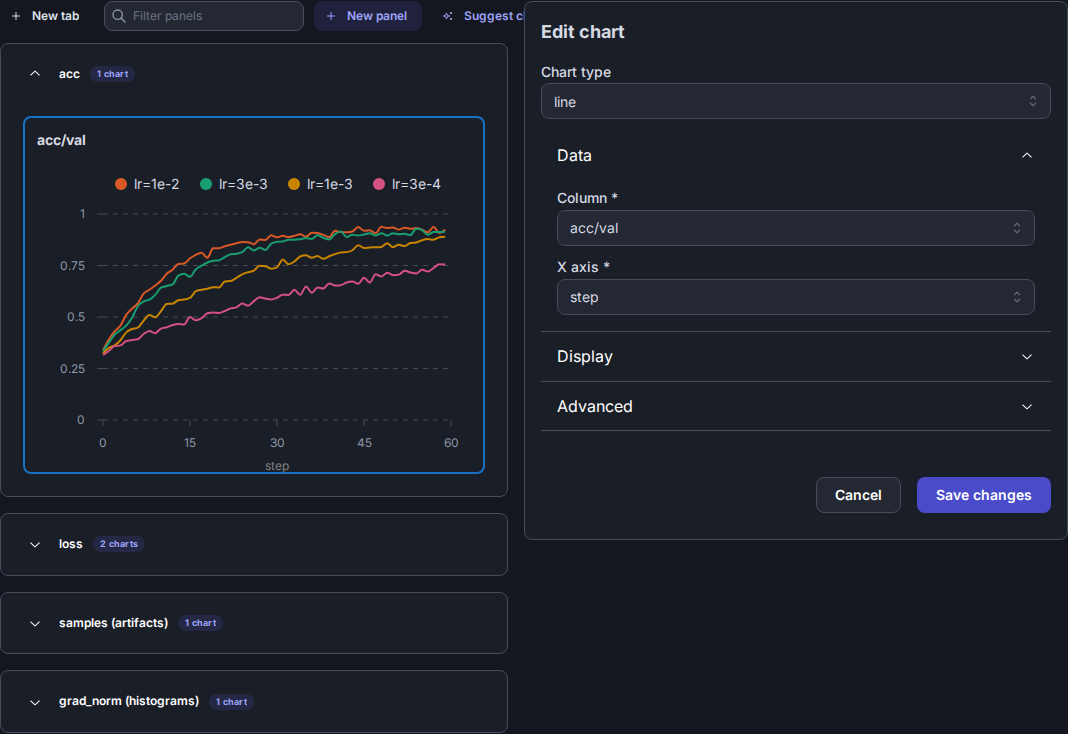
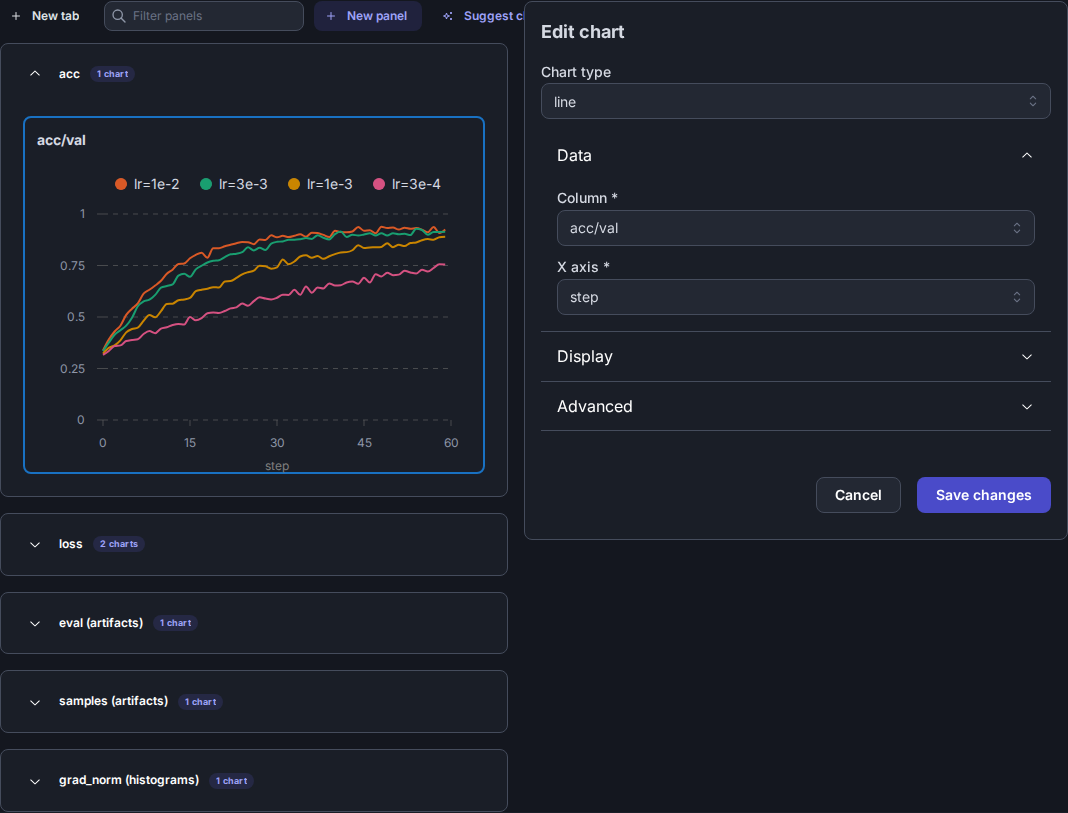
Screenshot a Plotly chart for the charts docs
The docs demo's sweep logs a precision-recall curve as a Plotly figure at each image step, worked out
rather than sampled so no other number moves, and a new `plotly-chart` shot draws every run's curve
in one figure, scrubbed to the last step. The experiment page now auto-generates an `eval (artifacts)`
panel for it, so the three shots of that page are re-rendered.

diff --git a/dlboard/tests/docs_screenshots_test.py b/dlboard/tests/docs_screenshots_test.py
@@ -33,6 +33,7 @@ from dlboard import models
 from dlboard.client._rest_api import BasicDlboardAPI
 from dlboard.client.artifacts.figure import Figure
 from dlboard.client.artifacts.overlay import Box, Overlay, Point, Polyline, Shape
+from dlboard.client.artifacts.plotly import PlotlyFigure
 from dlboard.client.histograms import ExponentialBinning
 from dlboard.conftest import ScreenshotMode
 from dlboard.plugins.retention import _section as retention
@@ -84,6 +85,7 @@ _PROJECT_NAME = "image-classification"
 _EXPERIMENT_NAME = "lr-sweep"
 _CONFUSION_KEY = "samples/confusion_matrix"
 _GRAD_KEY = "grad_norm/layer1"
+_PR_CURVE_KEY = "eval/pr_curve"
 _NOW = _T0.add(days=1)
 _CONFUSION_OVERLAYS: dict[str, list[Shape]] = {
     "confused": [
@@ -118,6 +120,7 @@ class DocScreenshot(StrEnum):
     HISTOGRAM_CHART = "histogram-chart"
     COMPARISON = "comparison"
     RETENTION = "retention"
+    PLOTLY_CHART = "plotly-chart"
 
     @property
     def path(self) -> Path:
@@ -173,6 +176,24 @@ def _confusion_matrix(step: int, rng: np.random.Generator) -> MplFigure:
     ax.imshow(counts, cmap="Blues")
     ax.set(xticks=range(10), yticks=range(10), xlabel="Predicted", ylabel="Actual", title=f"Step {step}")
     return fig
+
+
+def _pr_curve(step: int, convergence_rate: float) -> dict[str, Any]:
+    """
+    A precision-recall curve as a Plotly figure: it bows out toward the top-right corner as the run converges.
+
+    Worked out, not sampled, so seeding it leaves the demo's random numbers (and every other screenshot) as they were.
+    """
+    recall = np.linspace(0, 1, 41)
+    progress = 1 - math.exp(-step * convergence_rate)
+    precision = 1 - 0.85 * recall ** (1 + 9 * progress)
+    return {
+        "data": [{"type": "scatter", "mode": "lines", "x": recall, "y": precision}],
+        "layout": {
+            "xaxis": {"title": {"text": "Recall"}, "range": [0, 1]},
+            "yaxis": {"title": {"text": "Precision"}, "range": [0, 1.02]},
+        },
+    }
 
 
 def _seed_pins_and_comparison(store: DataStore[...], project_id: int) -> int:
@@ -286,7 +307,13 @@ def demo(live_server_url: str, dlboard_app: Dash, tmp_path_factory: pytest.TempP
             for step in _IMAGE_STEPS
             for name, shapes in _CONFUSION_OVERLAYS.items()
         ]
-        api.log_artifact_batch([*converted, *overlays])
+        pr_curves = [
+            PlotlyFigure.from_figure(
+                _pr_curve(step, config.convergence_rate), _PR_CURVE_KEY, step=step
+            ).to_artifact(artifact_dir, run.id, sweep.id)
+            for step in _IMAGE_STEPS
+        ]
+        api.log_artifact_batch([*converted, *overlays, *pr_curves])
 
     # Kept separate from `sweep` (which every other scene charts and forks personal views off of) so
     # the PERSONAL_VIEWS scene's own view picker only ever shows what it creates itself. Named
@@ -311,7 +338,9 @@ def demo(live_server_url: str, dlboard_app: Dash, tmp_path_factory: pytest.TempP
     # The server records uploaded artifacts on a background batch (see `BlobArtifactStore`), so
     # they land shortly after the uploads above return.
     store = get_system_data_store(dlboard_app)
-    expected = len(_SWEEP) * len(_IMAGE_STEPS) * (1 + len(_CONFUSION_OVERLAYS))
+    expected = (
+        len(_SWEEP) * len(_IMAGE_STEPS) * (2 + len(_CONFUSION_OVERLAYS))
+    )  # a picture, its overlays, a PR curve
     deadline = time.monotonic() + _ARTIFACT_INGEST_TIMEOUT_S
     while len(list(store.fetch_artifacts(experiment_id=sweep.id, run_ids=None))) < expected:
         assert time.monotonic() < deadline, "the demo artifacts were never recorded"
@@ -555,6 +584,35 @@ def _stage(shot: DocScreenshot, page: Page, demo: Demo, dlboard_app: Dash) -> Pa
             page.goto(f"{demo.url}/experiment/{demo.experiment_id}?view={view.id}")
             panel = page.locator(".dl-panel-body", has=page.locator(".dl-histogram"))
             expect(panel.locator(".heatmaplayer image")).to_have_count(len(_SWEEP))
+            return panel
+        case DocScreenshot.PLOTLY_CHART:
+            # A view of its own holding just the Plotly chart, for the same reason as the table's: every run's PR curve
+            # in one figure, scrubbed to the last step (it opens at the first, as an image chart does), where they differ.
+            store = get_system_data_store(dlboard_app)
+            owner = store.get_or_create_user(models.Principal.unverified("demo"))
+            curves = models.ChartInstance[Any, Any](
+                chart_type="plotly",
+                parameters={"key": _PR_CURVE_KEY, "combine_runs": True, "height": 380, "width": 640},
+            )
+            view = store.create_view(
+                BasicExperimentPage,
+                models.NewPage[Any, Any](
+                    experiment_id=demo.experiment_id,
+                    owner_id=owner.id,
+                    name="PR curves",
+                    panels=[models.PanelInstance[Any, Any](name="Sweep", charts=[curves])],
+                ),
+            )
+            page.goto(f"{demo.url}/experiment/{demo.experiment_id}?view={view.id}")
+            panel = page.locator(".dl-panel-body", has=page.locator(".js-plotly-plot"))
+            expect(panel.locator(".scatterlayer .trace")).to_have_count(len(_SWEEP))
+            slider = panel.get_by_role("slider")
+            slider.press("End")
+            expect(slider).to_have_attribute("aria-valuenow", str(_IMAGE_STEPS[-1]))
+            page.mouse.move(
+                0, _VIEWPORT["height"] - 1
+            )  # off the figure, so its mode bar and hover label aren't shown
+            slider.blur()  # nor the slider's focus ring
             return panel
         case DocScreenshot.COMPARISON:
             page.goto(f"{demo.url}/comparison/{demo.comparison_id}")

diff --git a/docs/plugins/charts.md b/docs/plugins/charts.md
@@ -31,6 +31,11 @@ so what the figure sets itself (a trace's color, a title) is kept; `use_figure_t
 logged with. A figure's own `height` and `width` give way to the chart's `height` and the panel's width. Auto-generate
 makes a `plotly` chart for each key a figure is logged under.
 
+Four runs' precision-recall curves, logged as a figure at each of four steps, drawn in one figure (`combine_runs`) at
+the latest step, with the slider over the steps:
+
+![A Plotly chart of every run's precision-recall curve in one figure, with a slider over the steps](../images/plotly-chart.png)
+
 A figure logged with bindings is a *template* once data has been logged into it (`PlotlyData`, logged under the
 template's key plus `_$data`, see `plotly_data_key`): the same chart draws the template with each run's data in the
 attributes its bindings name (trace 0's `lat` and `lon` from the `lat` and `lon` columns, say), and the rest of the
